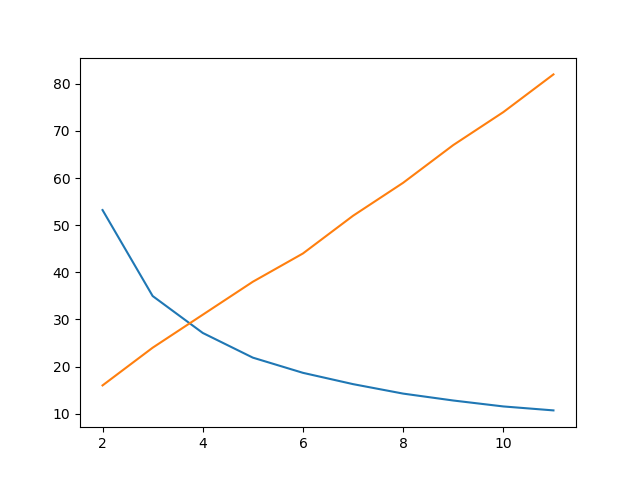
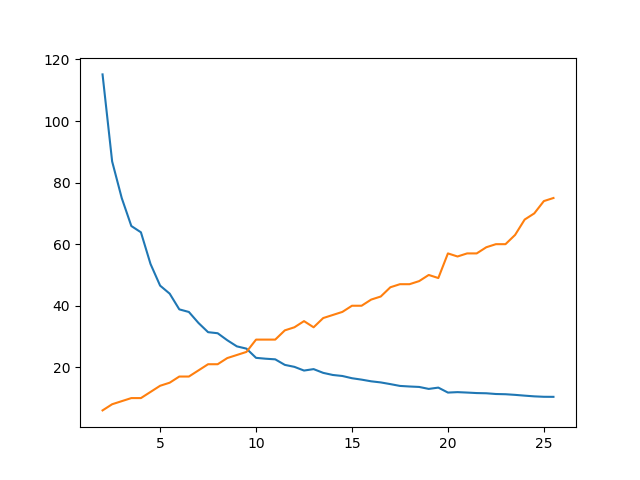
adjust production rate change to fit problem description

diff --git a/b_ancestry.py b/b_ancestry.py
@@ -19,10 +19,16 @@ def generate20eggs(bees_rate=bees_rate, mutant=mutant, mutantRate=5):
             if bees_rate[bee] >= x:
                 current_run_new += 1
                 new_eggs.append(bee)
-                if bee == mutant:
-                    bees_rate[bee] += mutantRate*0.05
-                else:
-                    bees_rate[bee] -= deltaR
+                for bee in bees:
+                    if bee == mutant:
+                        bees_rate[bee] += mutantRate * 0.05
+                    else:
+                        bees_rate[bee] -= deltaR
+
+                # if bee == mutant:
+                #     bees_rate[bee] += mutantRate*0.05
+                # else:
+                #     bees_rate[bee] -= deltaR
 
     if len(new_eggs)> egg_population:
         endSelect = random.sample(new_eggs[-1*current_run_new:], len(new_eggs)-egg_population)
@@ -51,7 +57,8 @@ def pctMutant(eggs, mutant):
 import matplotlib.pyplot as plt
 checkRates = [x+1 for x in range(99)]
 rateL, generationL, mutationRateL = [], [], []
-for rate in range(2,12):
+# for rate in range(2,12):
+for rate in [y*0.5+2.0 for y in range(0,48)]:
     rateL.append(rate)
     deltaR = rate * 0.05
     print('rate: ', rate, end='; ')
